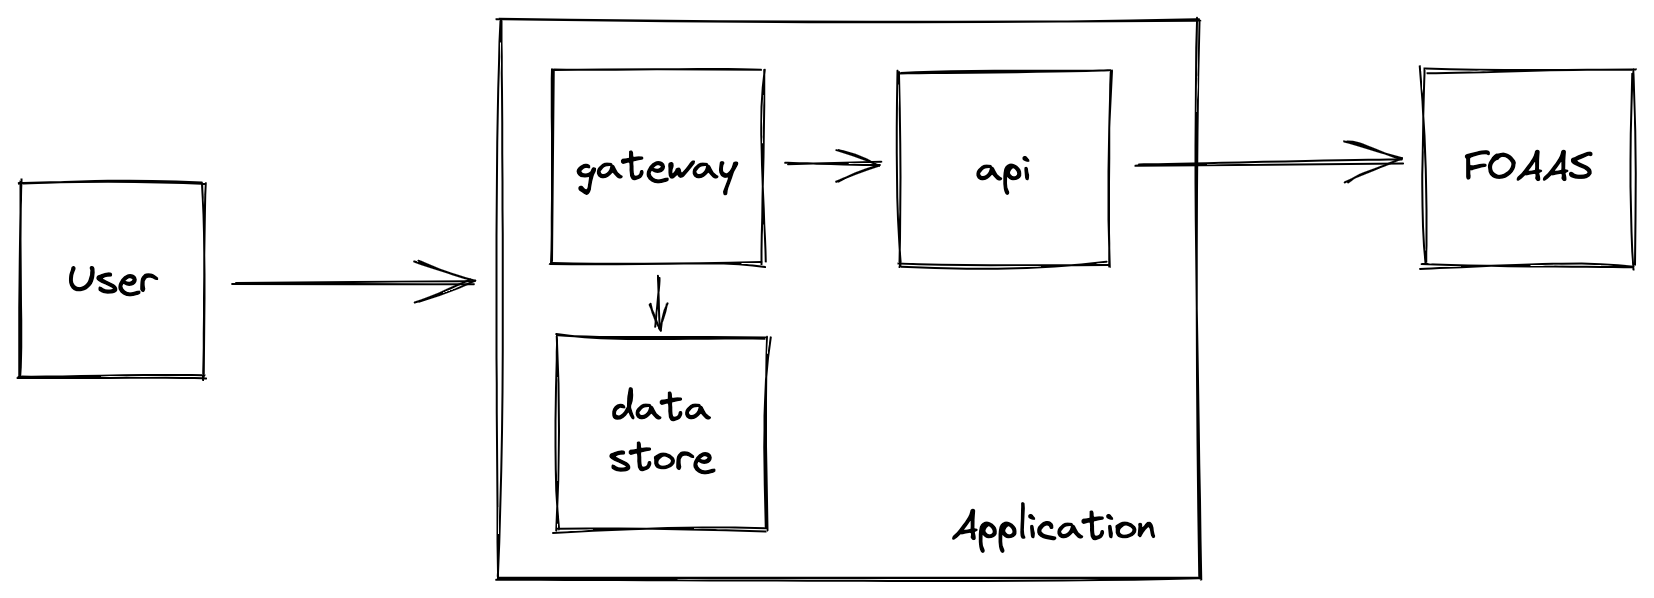
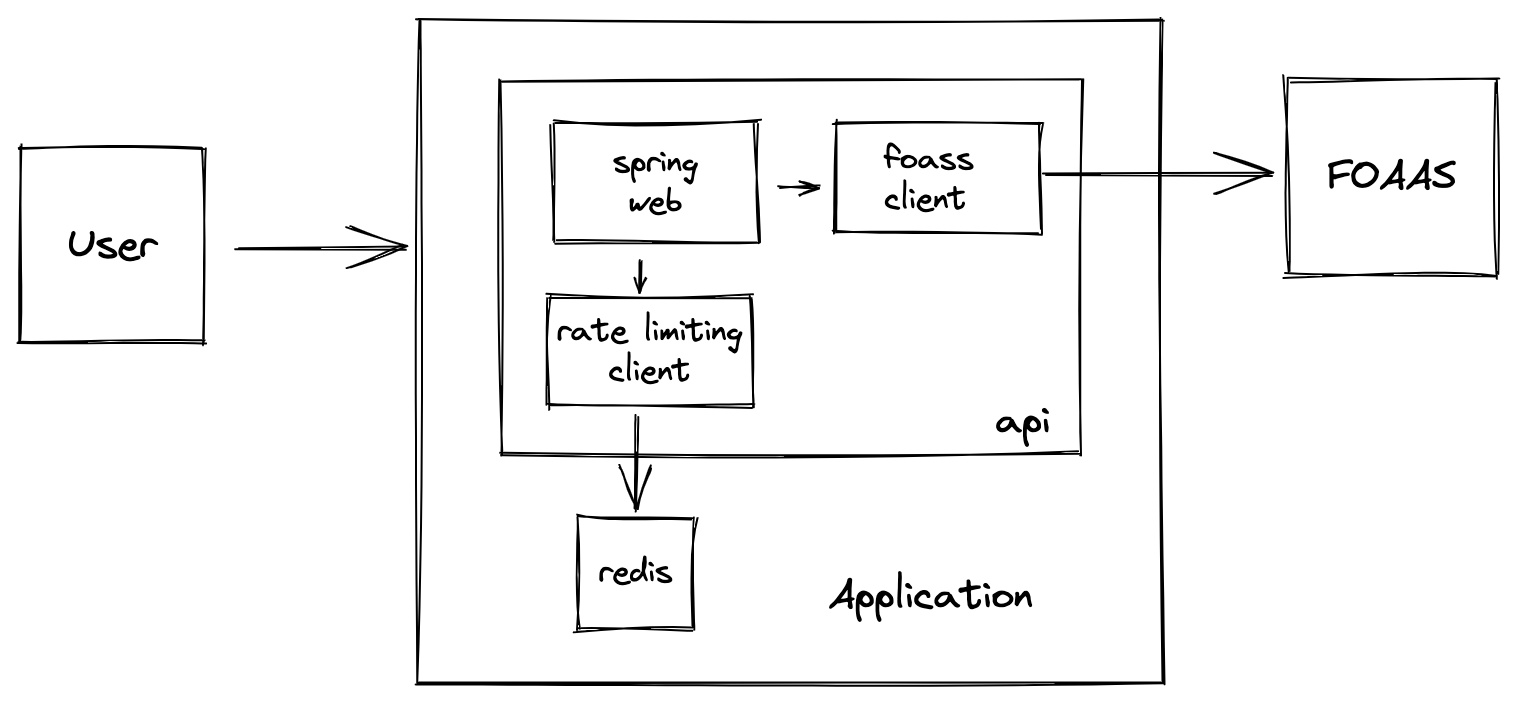
rate limiter metrics

diff --git a/src/main/java/com/mm/rate_limit/service/RateLimiter.java b/src/main/java/com/mm/rate_limit/service/RateLimiter.java
@@ -1,5 +1,7 @@
 package com.mm.rate_limit.service;
 
+import io.micrometer.core.instrument.Counter;
+import io.micrometer.core.instrument.MeterRegistry;
 import org.slf4j.Logger;
 import org.slf4j.LoggerFactory;
 import org.springframework.beans.factory.annotation.Value;
@@ -23,6 +25,8 @@ import java.util.concurrent.TimeUnit;
 public class RateLimiter {
     private static final Logger logger = LoggerFactory.getLogger(RateLimiter.class);
 
+    private final MeterRegistry meterRegistry;
+
     private final StringRedisTemplate stringTemplate;
 
     @Value("${rate-limiter.request-allowed}")
@@ -30,31 +34,51 @@ public class RateLimiter {
     @Value("${rate-limiter.refresh-seconds}")
     private int refreshSeconds;
 
-    public RateLimiter(StringRedisTemplate stringTemplate) {
+    public RateLimiter(MeterRegistry meterRegistry, StringRedisTemplate stringTemplate) {
+        this.meterRegistry = meterRegistry;
         this.stringTemplate = stringTemplate;
     }
 
+    /**
+     * Validate if key is allowed according rate limiting configuration
+     *
+     * @param key identifier
+     * @return boolean is allowed result
+     */
     public boolean isAllowed(String key) {
 
-        List<Object> txResults = stringTemplate.execute(new SessionCallback<>() {
-            @Override
-            public <K, V> List<Object> execute(RedisOperations<K, V> operations) throws DataAccessException {
-                final StringRedisTemplate redisTemplate = (StringRedisTemplate) operations;
-                final ValueOperations<String, String> valueOperations = redisTemplate.opsForValue();
-                operations.multi();
-                valueOperations.increment(key);
-                redisTemplate.expire(key, refreshSeconds, TimeUnit.SECONDS);
-                return operations.exec();
-            }
-        });
-        assert txResults != null;
-        logger.info("User: " + key + " Current request count: " + txResults.get(0));
-        if (txResults.size() > 0 && (Long) txResults.get(0) > requestAllowed) {
-            logger.info("denied");
-            return false;
+        boolean isAllowed = false;
+
+        try {
+            List<Object> txResults = stringTemplate.execute(new SessionCallback<>() {
+                @Override
+                public <K, V> List<Object> execute(RedisOperations<K, V> operations) throws DataAccessException {
+                    final StringRedisTemplate redisTemplate = (StringRedisTemplate) operations;
+                    final ValueOperations<String, String> valueOperations = redisTemplate.opsForValue();
+                    operations.multi();
+                    valueOperations.increment(key);
+                    redisTemplate.expire(key, refreshSeconds, TimeUnit.SECONDS);
+                    return operations.exec();
+                }
+            });
+            assert txResults != null;
+            isAllowed = (txResults.size() > 0 && (Long) txResults.get(0) <= requestAllowed);
+            logger.info("User: " + key + " Current request count: " + txResults.get(0) + " allowed: " + isAllowed);
+            resultMetrics(key, isAllowed);
+        } catch (final Throwable t) {
+            logger.warn("Error on redis operation: {}", t.getMessage());
         }
-        logger.info("allowed");
-        return true;
+        return isAllowed;
+    }
+
+    /**
+     * metrics collector
+     */
+    private void resultMetrics(String key, boolean isAllowed) {
+        Counter.builder("service.rate-limiter.allowed." + isAllowed)
+                .tag("key", key)
+                .description("Allowed counter")
+                .register(meterRegistry).increment();
     }
 
 }

diff --git a/src/test/java/com/mm/rate_limit/service/FoassServiceTest.java b/src/test/java/com/mm/rate_limit/service/FoassServiceTest.java
@@ -7,7 +7,10 @@ import org.junit.Before;
 import org.junit.Test;
 import org.junit.runner.RunWith;
 import org.springframework.beans.factory.annotation.Autowired;
+import org.springframework.boot.actuate.autoconfigure.metrics.CompositeMeterRegistryAutoConfiguration;
+import org.springframework.boot.actuate.autoconfigure.metrics.MetricsAutoConfiguration;
 import org.springframework.boot.test.autoconfigure.web.client.RestClientTest;
+import org.springframework.context.annotation.Import;
 import org.springframework.http.HttpMethod;
 import org.springframework.http.HttpStatus;
 import org.springframework.http.MediaType;
@@ -26,6 +29,7 @@ import static org.springframework.test.web.client.response.MockRestResponseCreat
 
 @RunWith(SpringRunner.class)
 @RestClientTest(FoassService.class)
+@Import({MetricsAutoConfiguration.class, CompositeMeterRegistryAutoConfiguration.class})
 public class FoassServiceTest {
 
     @Autowired

diff --git a/src/test/java/com/mm/rate_limit/service/RateLimiterTest.java b/src/test/java/com/mm/rate_limit/service/RateLimiterTest.java
@@ -33,7 +33,7 @@ public class RateLimiterTest {
     private StringRedisTemplate stringTemplate;
 
     @Test
-    public void isAllowed_Ok() {
+    public void Test_isAllowed_Ok() {
         List<Long> txResults = Arrays.asList(1L, 2L);
 
         when(stringTemplate.execute(ArgumentMatchers.<SessionCallback<List<Long>>>any())).thenReturn(txResults);
@@ -41,7 +41,7 @@ public class RateLimiterTest {
     }
 
     @Test
-    public void isAllowed_Fail() {
+    public void Test_isAllowed_Fail() {
         List<Long> txResults = Arrays.asList(6L, 7L);
 
         when(stringTemplate.execute(ArgumentMatchers.<SessionCallback<List<Long>>>any())).thenReturn(txResults);

diff --git a/README.md b/README.md
@@ -10,6 +10,10 @@
 
 We use micrometer for the metrics because of the easy integration with spring framework
 
+Use redis to store rate limit data to share information between services
+
+Use JUnit 4 to easy mock service components
+
 ## Usage
 
 #### Requirements
@@ -21,7 +25,7 @@ We use micrometer for the metrics because of the easy integration with spring fr
 #### Run
 
 ```
-make run
+make build
 ```
 
 #### Get Message:
@@ -44,6 +48,7 @@ Search for metrics such as
 http_server_requests_seconds_max
 endpoint_message_time_seconds_max
 service_foass_message_time_seconds_max
+service.rate-limiter.allowed.*
 ```
 
 ## Contact
